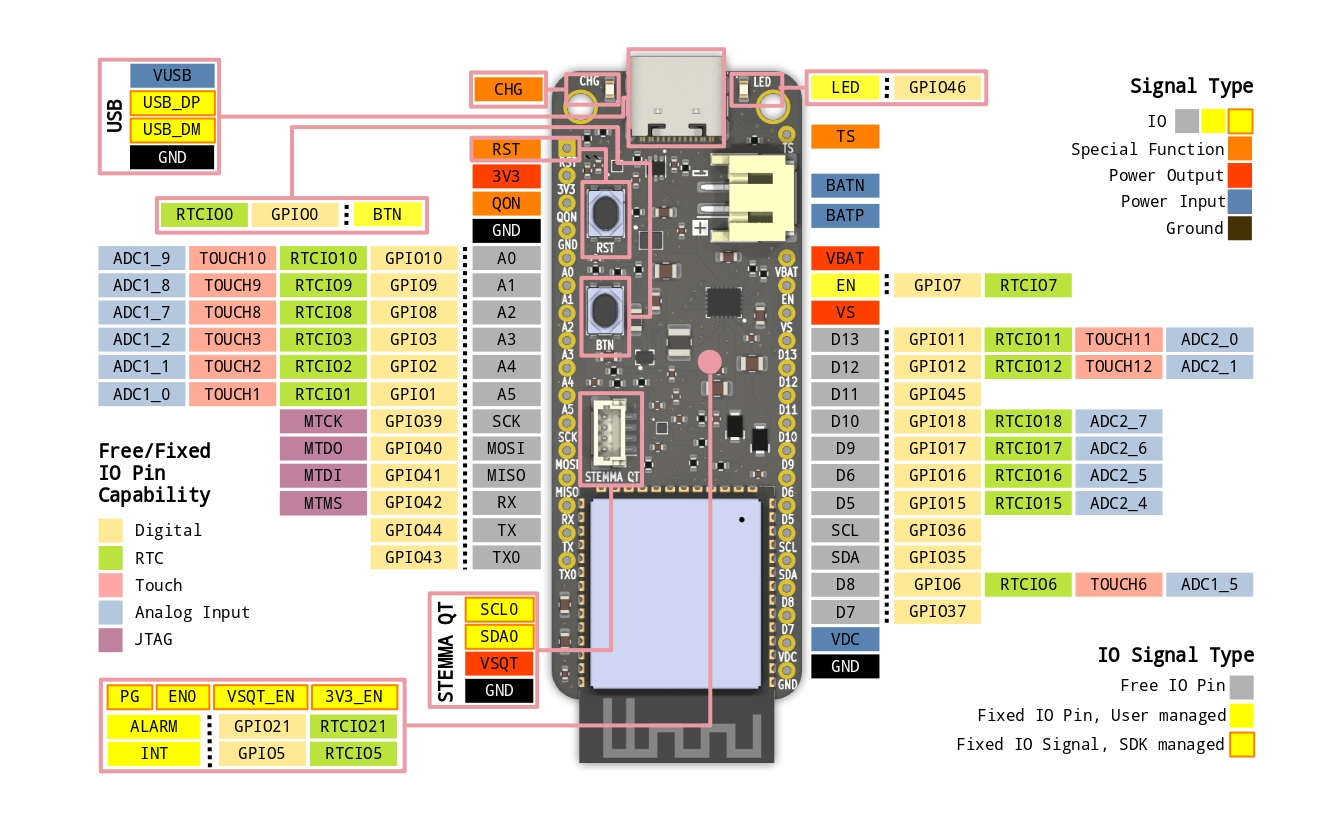
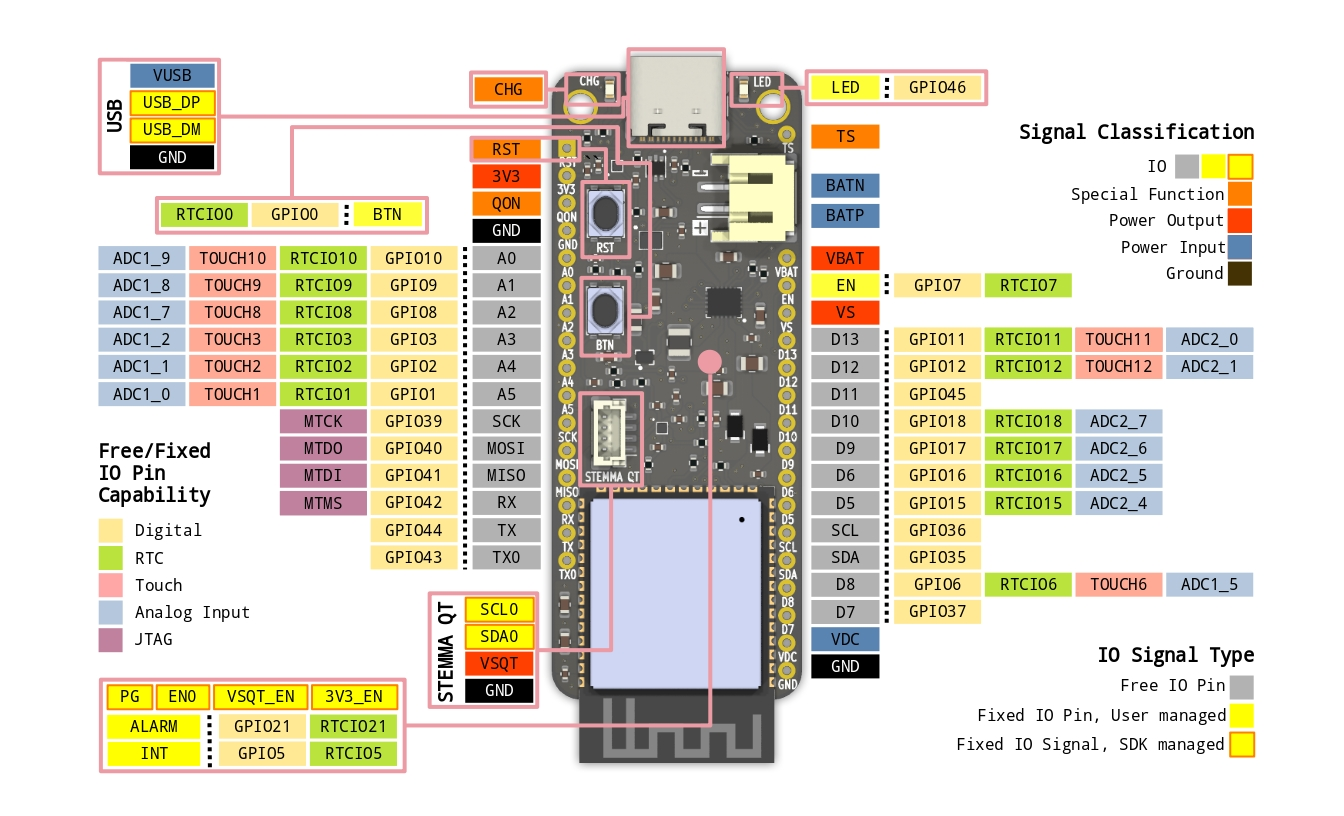
Further refine pin descriptions

Changed region(s): [[0.75, 0.0919, 0.9375, 0.3676]]

diff --git a/docs/esp32s3_powerfeather/overview.md b/docs/esp32s3_powerfeather/overview.md
@@ -89,77 +89,92 @@ slug: /
 
 ![ESP32-S3 PowerFeather Pins](assets/pinout.jpg)
 
-### Pin Type
+### Classification
 
-1. General-Purpose - free pins for the user to configure and use in firmware
-2. Fixed-function - pins that have a fixed function, carries a specific signal, or is connected to a specific component on the board
-3. Power Input - used for connecting input power supplies
-4. Power Output - used for connecting loads that get power from one of the board power output rails
-5. Ground - 0 V reference for board and connected loads
+- IO - signals routed to the ESP32-S3 GPIO pins
+    - Types
+            - Free IO Pin - GPIO pin not connected to anything on-board, user can freely configure the pin and use it for any purpose within its capabilities
+            - Fixed IO Pin, User-Managed - GPIO connected to a component on-board, but user maintains control for configuration and use within its capabilities
+            - Fixed IO Signal, SDK-Managed - GPIO connected to a component on-board, and whose configuration and use is managed by the SDK; a user configuring/using these pins will cause faulty functionality
 
-### Pin Capability
+    - Capabilities (for Free IO Pin, User-Managed Fixed IO Pin)
+            - Digital - pins that can output or accept input of 3.3 V digital logic
+            - RTC - pins that can hold output during deep-sleep; or be used as a wake source from deep-sleep
+            - Touch - pins that can be used for capacitive touch input
+            - Analog - pins that can read analog signals
+            - JTAG - pins that connects to JTAG debugger
 
-1. Digital - pins that can output or accept input of 3.3 V digital logic
-2. RTC - pins that can hold output during deep-sleep; or be used as a wake source from deep-sleep
-3. Touch - pins that can be used for capacitive touch input
-4. Analog - pins that can read analog signals
-5. JTAG - pins that connects to JTAG debugger
+- Special function - signals not routed to the ESP32-S3 GPIO pins, or to the other integrated circuits on-board such as the charger and fuel gauge, which serves a special function
+- Power Input - pins used for connecting input power supplies
+- Power Output - pins used for connecting loads that get power from one of the board power output rails
+- Ground - 0 V reference for the components on-board, input power supplies and connected loads
 
-### Power Pins
+### Description
 
-#### Power Input
-| Pin | Description | Usage
-|-|-|-|
-|BAT-| Li-Ion/Li-Poly Negative Terminal | Digital/RTC Input
-|BAT+| Li-Ion/Li-Poly Positive Terminal | Digital/RTC Input
-|VUSB| USB 5V | Digital/RTC Input
-|VDC| External DC Supply (up to 18V) | Digital Output
+#### IO
 
-#### Power Output
-| Pin | Description | Usage
-|-|-|-|
-|VBAT| Battery output | Digital/RTC Input
-|VS| Higher of VDC or VUSB | Digital/RTC Input
-|3V3| Header 3.3V | Digital/RTC Input
-|VSQT| STEMMA QT 3.3V | Digital Output
+##### Free IO
 
-
-### Fixed-Function Pins
-
-#### Limited user control
+##### User-Managed Fixed IO 
 
 While the following are fixed-function pins, user is able to have limited control of them - mostly to read or write
 signal associated with them. User might want to setup interrupts, set as wake source for inputs, or do PWM for outputs.
 
-| Pin | Description | Usage
-|-|-|-|
-|ALARM| Fuel Gauge Alarm | Digital/RTC Input
-|INT| Battery Charger Interrupt | Digital/RTC Input
-|BTN| User Button | Digital/RTC Input
-|LED| User LED | Digital Output
-|EN| Board Enable (active high) | Digital/RTC Input
+| Pin | Description
+|-|-|
+|ALARM| Fuel Gauge Alarm Input
+|INT| Battery Charger Interrupt Input
+|BTN| User Button Input
+|LED| Green User LED Output
+|EN| Board Enable Input |
 
-Unlike other Feather boards, pulling `EN` low does not automatically disable power outputs. The firmware must detect that `EN` has been pulled low and disable desired power outputs.
-
-#### User control not recommended
-
-These are pins that are not recommended
+##### SDK-Managed Fixed IO
 
 | Pin | Description |
 |-|-|
-|USB_DP| USB Differential Pair + |
-|USB_DM| USB Differential Pair - |
-|SRC| USB or DC Power Source Indicator |
-|3V3_EN| Header 3.3V Enable (active high) |
-|VSQT_EN| STEMMA QT 3.3V Enable (active high) |
+|USB_DP| USB Data Positive |
+|USB_DM| USB Data Negative |
+|PG| Power Supply Good Indicator Input |
+|3V3_EN| 3V3 Enable Output|
+|VSQT_EN| VSQT Enable Output |
+|EN0| Board Enable Output |
 
+#### Special Function
 
-#### No user control
-
-| Pin | Description |
+| Name | Description |
 |-|-|
 |CHG| Battery Charger Status LED |
 |RST| ESP32-S3 Module Reset |
+|QON| Ship Mode Exit|
+|TS| Battery 10k NTC Thermistor Input|
+
+#### Power Input
+| Name | Description
+|-|-|
+|BATN| Li-Ion/Li-Poly Negative Terminal
+|BATP| Li-Ion/Li-Poly Positive Terminal
+|VUSB| 5V USB Power Supply |
+|VDC| 3.8 V - 18 V DC Power Supply
+
+#### Power Output
+| Name | Description
+|-|-|
+|VBAT| 3.7 V - 4.2 V Battery output
+|VS| 3.8 V - 18 V Power Supply; higher of `VDC` and `VUSB`
+|3V3| Header 3.3V | Digital/RTC Input
+|VSQT| STEMMA QT 3.3V | Digital Output
+
+#### Ground
+
+| Name | Description |
+|-|-|
+|GND| Ground Pin |
+
+## Feather Deviations
+
+- QON pin on AREF
+- EN pin does not automatically disable the board
+- VS instead of 5V
 
 ## Comparison
 | Detail | ESP32-S3 PowerFeather | Unexpected Maker FeatherS3 | DFRobot ESP32 Firebeetle (DFR0654) |
